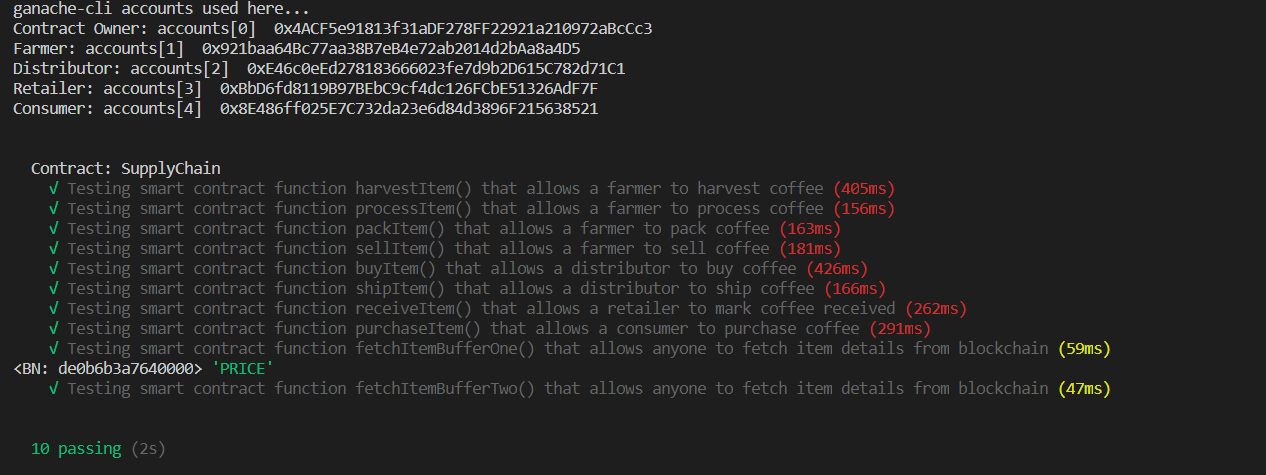
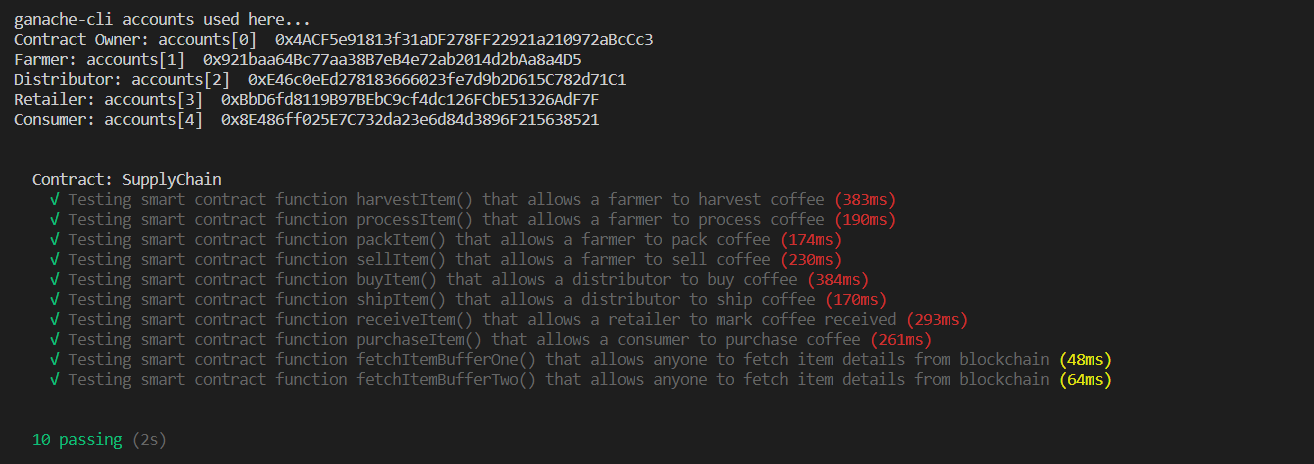
Updating image for test and test

Changed region(s): [[0.0, 0.3319, 0.8934, 0.8448], [0.0, 0.0, 0.5237, 0.2716], [0.0308, 0.9353, 0.154, 0.9655]]

diff --git a/project-6/test/TestSupplychain.js b/project-6/test/TestSupplychain.js
@@ -370,8 +370,6 @@ contract('SupplyChain', function (accounts) {
         // Retrieve the just now saved item from blockchain by calling function fetchItem()
         const resultBufferTwo = await supplyChain.fetchItemBufferTwo.call(upc)
 
-        console.log(resultBufferTwo[4], 'PRICE');
-
         // Verify the result set
         assert.equal(resultBufferTwo[0], sku, 'Error: Invalid item sku')
         assert.equal(resultBufferTwo[1], upc, 'Error: Invalid item upc')
